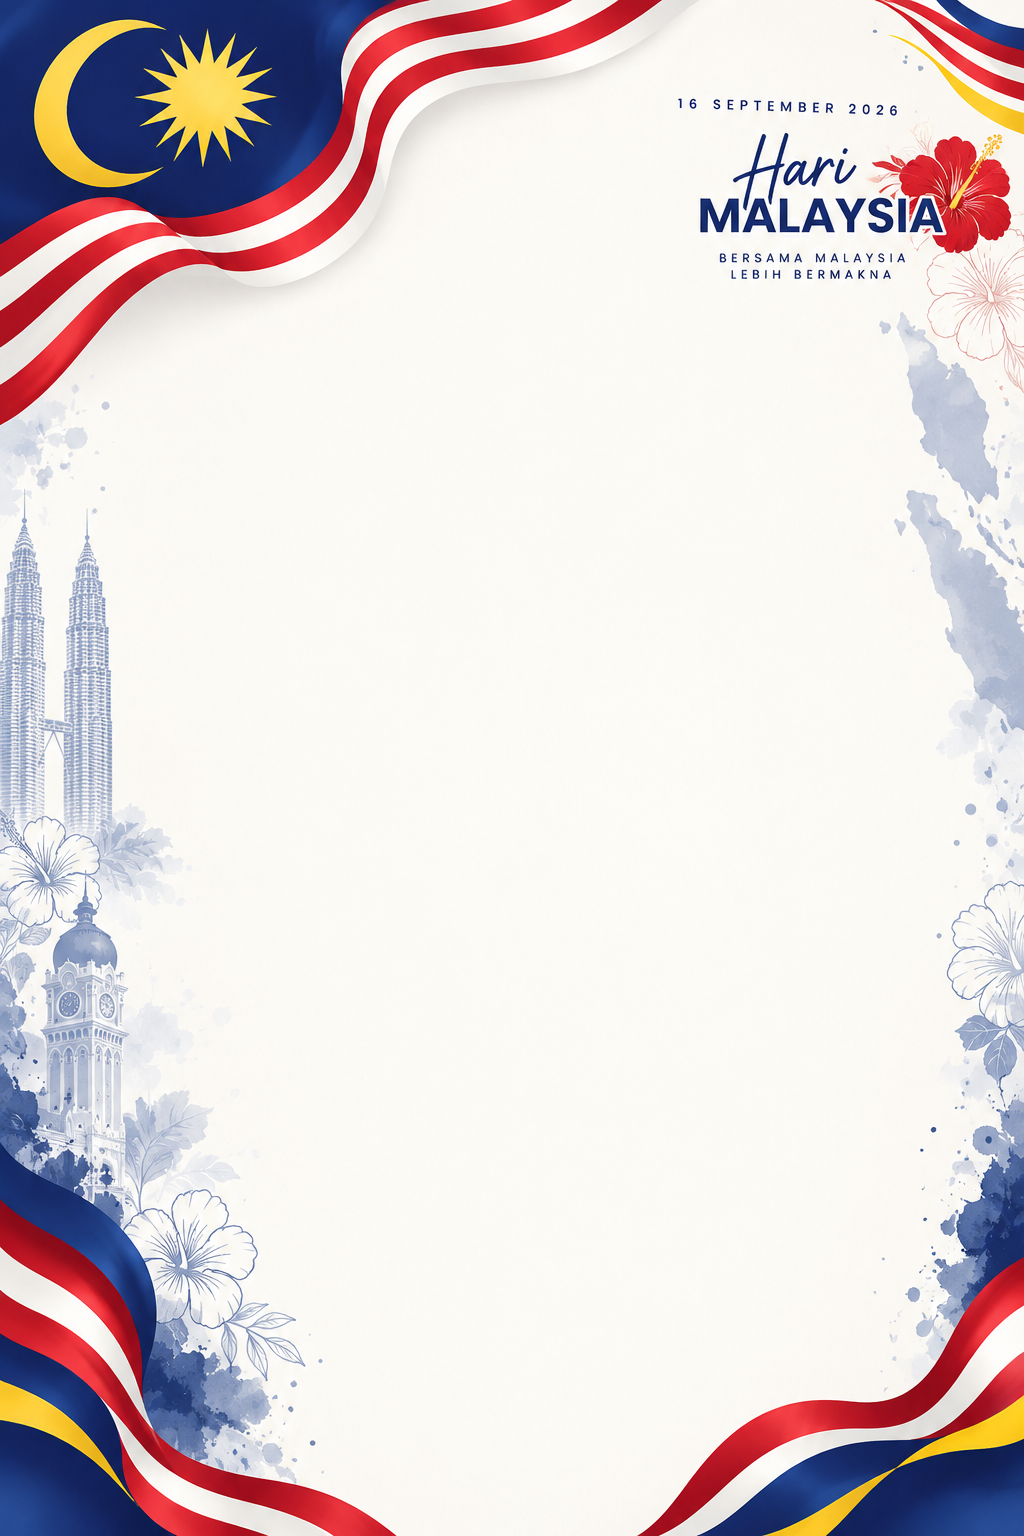
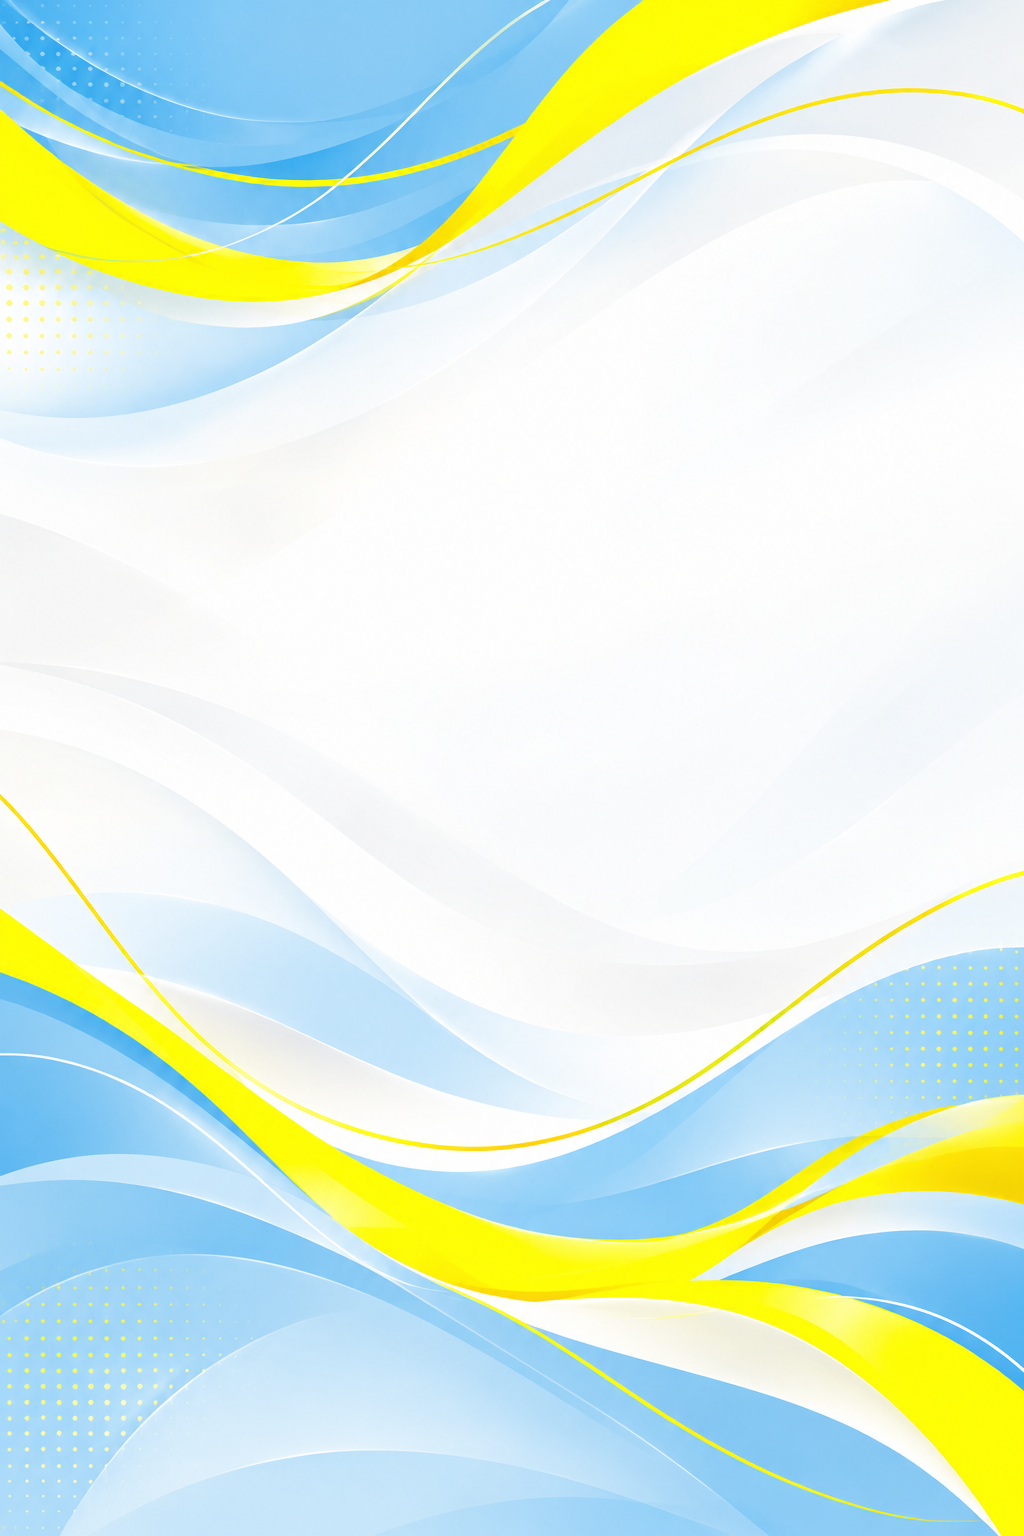
Add files via upload

diff --git a/app.js b/app.js
@@ -4,7 +4,10 @@
  * Hot Selling + Auto Assign Reseller + 5-min Admin Handoff
  ***********************/
 
-const API_URL = "https://script.google.com/macros/s/AKfycbxVm79WzB0PnyDcFPM9hWl4Lj1smvQJe2EaoeGzNAExzp8PTbHwdfxmJ-Uqbml2RGlF/exec";
+const API_URL = "https://script.google.com/macros/s/AKfycbxVm79WzB0PnyDcFPM9hWl4Lj1smvQJe2EaoeGzNAExzp8PTbHwdfxmJ-Uqbml2RGlF/exec"; // assignReseller flow only
+const SUPABASE_URL = "https://lqsgcpkrmhckptedklsl.supabase.co";
+const SUPABASE_PUBLISHABLE_KEY = "sb_publishable_WhVmEdfeqig54l3GRcINLg_W4QfUi_E";
+const SUPABASE_CATALOG_RPC = "get_website_catalog";
 const REFERRAL_CODE = getReferralCodeFromUrl();
 const STORAGE_KEY = "numo_active_lead_v75";
 const ADMIN_TELEGRAM_USERNAME = "ownernumoventures";
@@ -78,7 +81,7 @@ let uiText = {
   viewPackages: "Lihat Pakej",
   closePackages: "Tutup Pakej",
   buyNow: "Beli Sekarang",
-  assigning: "Menyediakan permintaan...",
+  assigning: "Mencari reseller...",
   openTelegram: "Buka Telegram Reseller",
   findAnother: "Hubungi Admin",
   findingAnother: "Membuka Telegram admin...",
@@ -126,11 +129,11 @@ const PRODUCTS = [
     category: "Streaming",
     desc: "Private profile dan warranty penuh.",
     plans: [
-      { duration: "1 Bulan", price: "RM28" },
-      { duration: "2 Bulan", price: "RM56" },
-      { duration: "3 Bulan Promo", label: "3 Bulan", price: "RM84" },
-      { duration: "6 Bulan", price: "RM168" },
-      { duration: "12 Bulan", price: "RM336" }
+      { duration: "1 Bulan", price: "RM25" },
+      { duration: "2 Bulan", price: "RM50" },
+      { duration: "3 Bulan Promo", label: "3 Bulan", price: "RM75" },
+      { duration: "6 Bulan", price: "RM150" },
+      { duration: "12 Bulan", price: "RM300" }
     ]
   },
   {
@@ -410,28 +413,134 @@ async function loadControl() {
   setSync(uiText.syncing, "warn");
 
   try {
-    const r = await jsonp({
-      mode: "getWebsiteControl",
-      _: Date.now()
-    });
-
-    if (!r.ok) throw new Error(r.error);
+    const rows = await loadSupabaseCatalog();
+    applySupabaseCatalog(rows);
 
     control = {
-      stock: r.data?.stock || [],
-      promos: r.data?.promos || [],
-      hotSelling: r.data?.hotSelling || [],
-      meta: r.data?.meta || {},
+      stock: buildStockFromCatalog(rows),
+      promos: [],
+      hotSelling: [],
+      meta: { source: "SUPABASE", loadedAt: new Date().toISOString() },
       loaded: true
     };
 
-    setSync(uiText.liveStockPromo, "live");
+    setSync("Live price & slot", "live");
   } catch (e) {
+    console.error("Supabase catalog sync failed:", e);
     control.loaded = false;
     setSync(uiText.offlinePriceMode, "warn");
   } finally {
     controlLoading = false;
   }
+}
+
+async function loadSupabaseCatalog() {
+  const r = await fetch(`${SUPABASE_URL}/rest/v1/rpc/${SUPABASE_CATALOG_RPC}`, {
+    method: "POST",
+    headers: {
+      "apikey": SUPABASE_PUBLISHABLE_KEY,
+      "Authorization": `Bearer ${SUPABASE_PUBLISHABLE_KEY}`,
+      "Content-Type": "application/json"
+    },
+    body: "{}",
+    cache: "no-store"
+  });
+
+  if (!r.ok) {
+    const detail = await r.text();
+    throw new Error(`Catalog HTTP ${r.status}: ${detail}`);
+  }
+
+  const rows = await r.json();
+  if (!Array.isArray(rows)) throw new Error("Invalid catalog response");
+  return rows;
+}
+
+function moneyRM(value) {
+  const n = Number(value);
+  if (!Number.isFinite(n)) return "RM0";
+  return `RM${Number.isInteger(n) ? n.toFixed(0) : n.toFixed(2)}`;
+}
+
+function catalogTarget(row) {
+  const code = normalize(row.product_code);
+  const map = {
+    NETFLIX: { product: "NETFLIX PREMIUM", section: "ALL" },
+    DISNEY: { product: "DISNEY+ HOTSTAR", section: "ALL" },
+    HBOMAX: { product: "HBO MAX", section: "ALL" },
+    VIU: { product: "VIU PREMIUM", section: "ALL" },
+    IQIYI: { product: "iQIYI PREMIUM", section: "ALL" },
+    PRIMEVIDEO: { product: "PRIME VIDEO", section: "ALL" },
+    SPOTIFY: { product: "SPOTIFY PREMIUM", section: "ALL" },
+    YOUTUBE_OWN: { product: "YOUTUBE PREMIUM", section: "Email Sendiri" },
+    YOUTUBE_SELLER: { product: "YOUTUBE PREMIUM", section: "Email Seller" }
+  };
+  return map[code] || null;
+}
+
+function applySupabaseCatalog(rows) {
+  rows.forEach(row => {
+    const target = catalogTarget(row);
+    if (!target) return;
+
+    const p = findProduct(target.product);
+    if (!p) return;
+
+    const plans = p.sections
+      ? (p.sections.find(x => normalize(x.title) === normalize(target.section))?.plans || [])
+      : (p.plans || []);
+
+    const plan = plans.find(x =>
+      normalize(x.duration) === normalize(row.plan_code) ||
+      normalize(x.label || "") === normalize(row.plan_code) ||
+      normalize(displayDuration(x.duration)) === normalize(displayDuration(row.plan_code))
+    );
+    if (!plan) {
+      console.warn("No local plan mapping for", row.product_code, row.plan_code);
+      return;
+    }
+
+    plan.price = moneyRM(row.selling_price);
+    plan.basePrice = moneyRM(row.base_price);
+    plan.promoPrice = row.promo_price == null ? null : moneyRM(row.promo_price);
+  });
+}
+
+function buildStockFromCatalog(rows) {
+  const byKey = new Map();
+
+  rows.forEach(row => {
+    const target = catalogTarget(row);
+    if (!target) return;
+    const key = `${normalize(target.product)}|${normalize(target.section)}`;
+    if (!byKey.has(key)) {
+      const slots = Number(row.available_slots || 0);
+      byKey.set(key, {
+        product: target.product,
+        section: target.section,
+        status: row.is_available && slots > 0 ? "ON" : "OFF",
+        stockText: row.is_available && slots > 0 ? `${slots} slot kosong` : uiText.soldOutLabel,
+        availableSlots: slots
+      });
+    }
+  });
+
+  const result = [...byKey.values()];
+
+  // Non-YouTube products use ALL. YouTube availability is section-specific.
+  const yt = result.filter(x => normalize(x.product) === "YOUTUBE PREMIUM");
+  if (yt.length) {
+    const slots = yt.reduce((sum, x) => sum + Number(x.availableSlots || 0), 0);
+    result.push({
+      product: "YOUTUBE PREMIUM",
+      section: "ALL",
+      status: yt.some(x => normalize(x.status) === "ON") ? "ON" : "OFF",
+      stockText: slots > 0 ? `${slots} slot kosong` : uiText.soldOutLabel,
+      availableSlots: slots
+    });
+  }
+
+  return result;
 }
 
 function isDataLoading() {
@@ -743,35 +852,37 @@ async function assignLead(order, button) {
 
   if (button) {
     button.disabled = true;
-    button.textContent = "Menyediakan permintaan...";
+    button.textContent = uiText.assigning;
   }
 
   try {
-    const r = await assignResellerRequest(order, {
+    let r = await assignResellerRequest(order, {
       source: REFERRAL_CODE ? "RESELLER_LINK" : "MAIN_WEBSITE",
       refCode: REFERRAL_CODE || ""
     });
 
-    if (!r || !r.ok || !r.data) {
-      throw new Error((r && r.error) || "Permintaan tidak berjaya.");
+    if (REFERRAL_CODE && !isValidReferralAssignResult(r)) {
+      r = await assignResellerRequest(order, {
+        source: "REFERRAL_FALLBACK",
+        refCode: "",
+        fallbackFromRef: REFERRAL_CODE
+      });
+
+      if (r.ok && r.data) {
+        r.data.referralFallback = true;
+        r.data.fallbackFromRef = REFERRAL_CODE;
+        r.data.status = "REASSIGNED";
+      }
     }
 
-    const lead = r.data;
+    if (!r.ok) throw new Error(r.error || "Assign failed");
 
-    if (lead.status === "WAITING_CUSTOMER" && lead.telegramUrl) {
-      activeLead = lead;
-      saveLead(activeLead);
-      updateResume();
-      window.location.href = lead.telegramUrl;
-      return;
-    }
-
-    throw new Error(
-      "Website API masih menggunakan flow reseller lama. Sila update deployment API production."
-    );
-
+    activeLead = r.data;
+    saveLead(activeLead);
+    updateResume();
+    showHandoff(activeLead);
   } catch (e) {
-    alert(e.message || "Maaf, permintaan tidak dapat diproses sekarang. Sila cuba semula.");
+    alert(e.message || "Maaf, sistem tidak dapat mencari reseller sekarang. Sila cuba semula.");
   } finally {
     if (button) {
       button.disabled = false;
